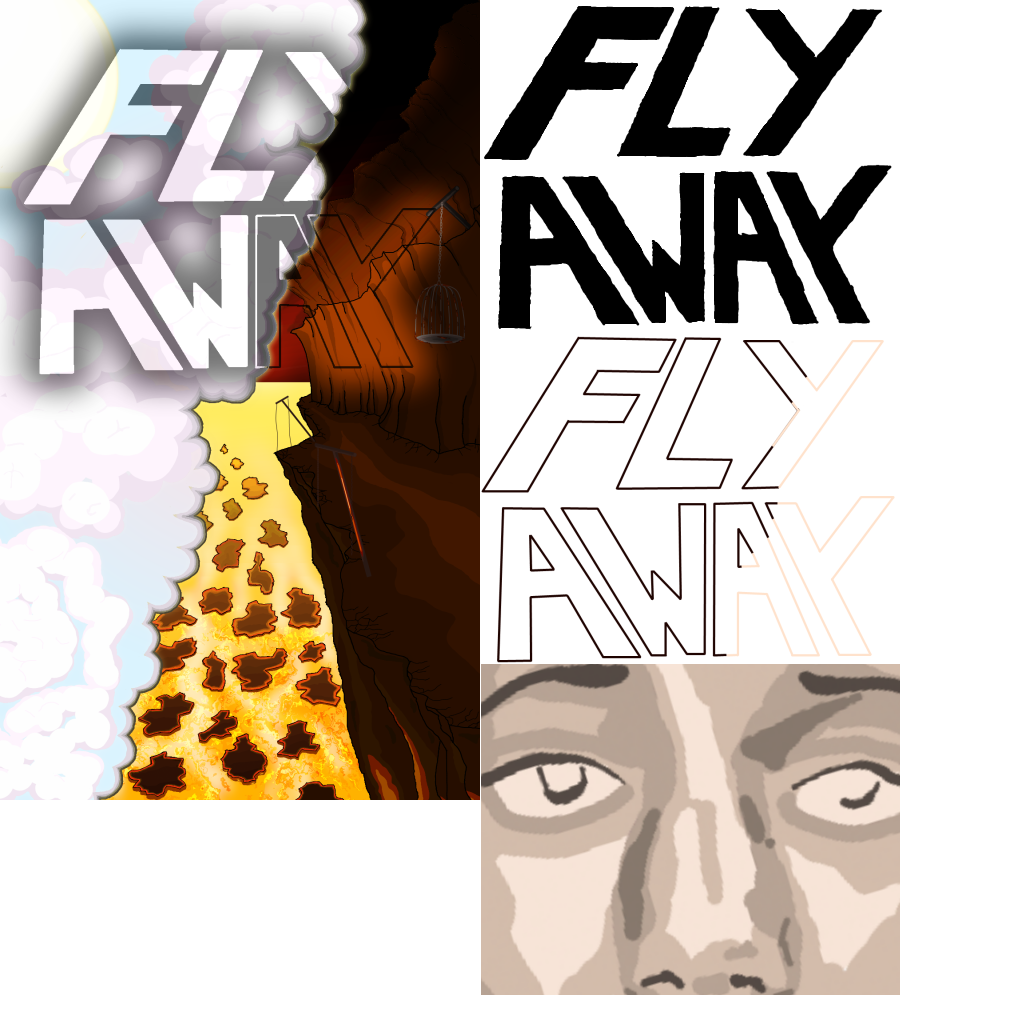
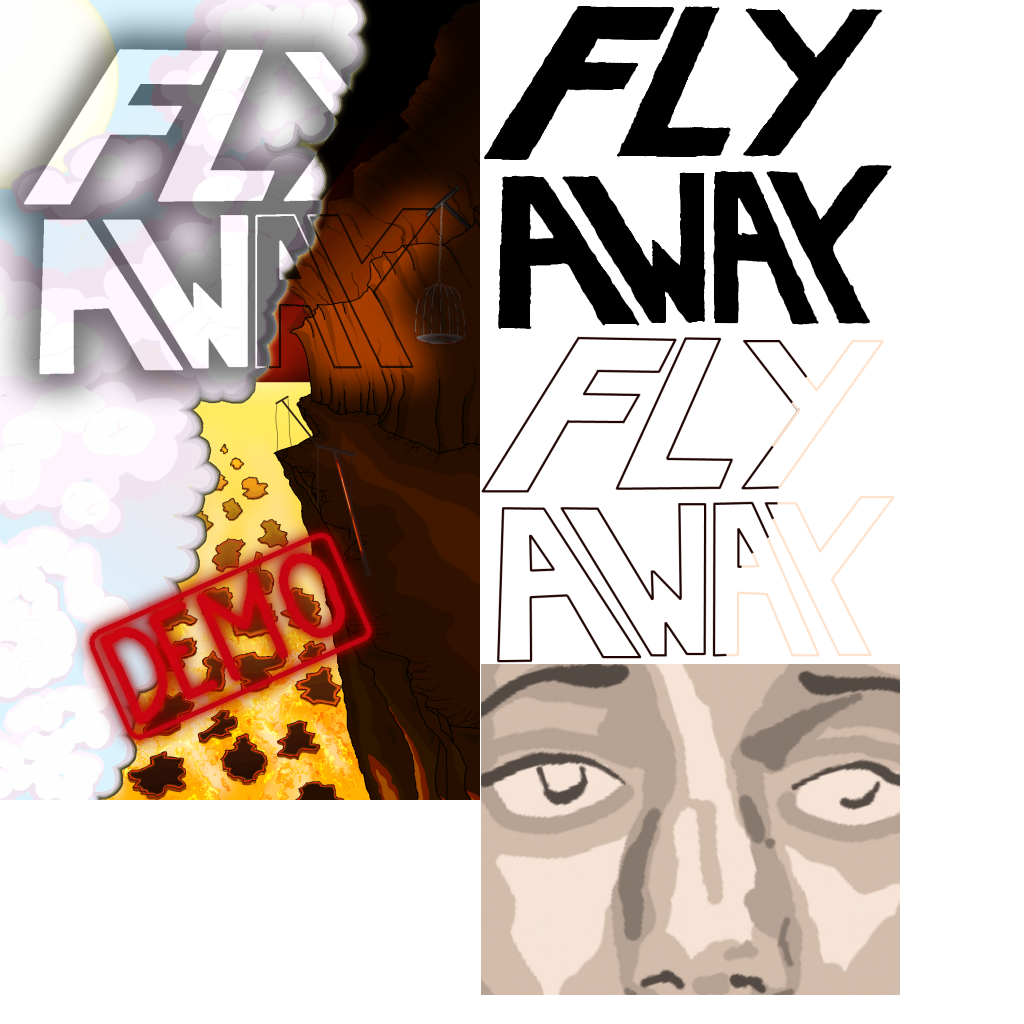
- demo sign on the main menu background screen - info screen with a link to our webpage instead of the 6th level

Changed region(s): [[0.0625, 0.5, 0.375, 0.75]]

diff --git a/Kabloons/src/com/hypefoundry/kabloons/GameScreen.java b/Kabloons/src/com/hypefoundry/kabloons/GameScreen.java
@@ -60,6 +60,8 @@ import com.hypefoundry.kabloons.entities.toggle.ToggleVisual;
 import com.hypefoundry.kabloons.entities.tutorial.StartTutorial;
 import com.hypefoundry.kabloons.entities.tutorial.StartTutorialController;
 import com.hypefoundry.kabloons.entities.tutorial.StartTutorialVisual;
+import com.hypefoundry.kabloons.entities.webLink.WebLink;
+import com.hypefoundry.kabloons.entities.webLink.WebLingVisual;
 import com.hypefoundry.kabloons.utils.AssetsFactory;
 import com.hypefoundry.kabloons.utils.LevelsLoader;
 import com.hypefoundry.kabloons.utils.UnlockedLevelsStorage;
@@ -73,7 +75,6 @@ import com.hypefoundry.kabloons.utils.UnlockedLevelsStorage;
 public class GameScreen extends Screen 
 {
 	private int									m_levelIdx;
-	private static int							m_levelsCount = 5;
 	
 	private static int							m_nominalViewportWidth = 480;
 	private static int							m_nominalViewportHeight = 800;
@@ -99,6 +100,7 @@ public class GameScreen extends Screen
 		m_levelIdx = levelIdx;
 		
 		final GameScreen gameScreen = this;
+		final Game gameInstance = game;
 		
 		// load common assets definitions
 		try 
@@ -115,6 +117,11 @@ public class GameScreen extends Screen
 		// create the game world
 		m_world = new World();
 		
+		// create the views
+		m_worldRenderer = new Renderer2D( game, m_nominalViewportWidth, m_nominalViewportHeight );
+		m_physicsView = new PhysicsView( 2.0f ); // TODO: configure cell size
+		m_controllersView = new ControllersView( this );
+		
 		// serialization support
 		m_world.registerEntity( Background.class, new EntityFactory() { @Override public Entity create() { return new Background(); } } );
 		m_world.registerEntity( AnimatedBackground.class, new EntityFactory() { @Override public Entity create() { return new AnimatedBackground(); } } );
@@ -127,6 +134,7 @@ public class GameScreen extends Screen
 		m_world.registerEntity( BuzzSaw.class, new EntityFactory() { @Override public Entity create() { return new BuzzSaw(); } } );
 		m_world.registerEntity( StartTutorial.class, new EntityFactory() { @Override public Entity create() { return new StartTutorial(); } } );
 		m_world.registerEntity( Help.class, new EntityFactory() { @Override public Entity create() { return new Help(); } } );
+		m_world.registerEntity( WebLink.class, new EntityFactory() { @Override public Entity create() { return new WebLink( gameInstance, gameScreen, m_worldRenderer.getCamera() ); } } );
 
 		// load the world
 		try 
@@ -141,11 +149,6 @@ public class GameScreen extends Screen
 			throw new RuntimeException( e );
 		}
 		
-		// create the views
-		m_worldRenderer = new Renderer2D( game, m_nominalViewportWidth, m_nominalViewportHeight );
-		m_physicsView = new PhysicsView( 2.0f ); // TODO: configure cell size
-		m_controllersView = new ControllersView( this );
-		
 		// register visuals
 		m_world.attachView( m_worldRenderer );
 		m_worldRenderer.register( Background.class, new EntityVisualFactory() { @Override public EntityVisual instantiate( Entity parentEntity ) { return new BackgroundVisual( m_resourceManager, parentEntity ); } } );
@@ -158,6 +161,7 @@ public class GameScreen extends Screen
 		m_worldRenderer.register( BuzzSaw.class, new EntityVisualFactory() { @Override public EntityVisual instantiate( Entity parentEntity ) { return new BuzzSawVisual( m_resourceManager, parentEntity ); } } );
 		m_worldRenderer.register( StartTutorial.class, new EntityVisualFactory() { @Override public EntityVisual instantiate( Entity parentEntity ) { return new StartTutorialVisual( m_resourceManager, parentEntity ); } } );
 		m_worldRenderer.register( Help.class, new EntityVisualFactory() { @Override public EntityVisual instantiate( Entity parentEntity ) { return new HelpVisual( m_resourceManager, parentEntity ); } } );
+		m_worldRenderer.register( WebLink.class, new EntityVisualFactory() { @Override public EntityVisual instantiate( Entity parentEntity ) { return new WebLingVisual( m_resourceManager, parentEntity ); } } );
 		
 		// register controllers
 		m_world.attachView( m_controllersView );
@@ -251,7 +255,7 @@ public class GameScreen extends Screen
 
 	public void loadNextLevel() 
 	{		
-		if ( m_levelIdx < m_levelsCount )
+		if ( m_levelIdx < LevelsLoader.m_levelsCount )
 		{
 			LevelsLoader.loadLevel( (GLGame)m_game, m_levelIdx + 1, m_levelIdx );
 		}
@@ -272,7 +276,7 @@ public class GameScreen extends Screen
 	 */
 	public void unlockNextLevel()
 	{
-		if ( m_levelIdx < m_levelsCount )
+		if ( m_levelIdx < LevelsLoader.m_levelsCount )
 		{
 			int nextLevelIdx = m_levelIdx + 1;
 			

diff --git a/Kabloons/src/com/hypefoundry/kabloons/entities/webLink/WebLink.java b/Kabloons/src/com/hypefoundry/kabloons/entities/webLink/WebLink.java
@@ -1,0 +1,99 @@
+/**
+ * 
+ */
+package com.hypefoundry.kabloons.entities.webLink;
+
+import java.util.List;
+
+import android.content.Intent;
+import android.net.Uri;
+
+import com.hypefoundry.engine.core.Input;
+import com.hypefoundry.engine.core.Input.TouchEvent;
+import com.hypefoundry.engine.game.Game;
+import com.hypefoundry.engine.game.InputHandler;
+import com.hypefoundry.engine.game.Screen;
+import com.hypefoundry.engine.impl.game.GLGame;
+import com.hypefoundry.engine.math.Vector3;
+import com.hypefoundry.engine.renderer2D.Camera2D;
+import com.hypefoundry.engine.util.serialization.DataLoader;
+import com.hypefoundry.engine.world.Entity;
+
+/**
+ * @author Paksas
+ *
+ */
+public class WebLink extends Entity implements InputHandler
+{
+	String						m_imagePath;
+	String 						m_url;
+	
+	private		Game			m_game;
+	private		Camera2D		m_camera;
+	private		Vector3			m_touchPos 		= new Vector3();
+	
+	
+	/**
+	 * Constructor.
+	 * 
+	 * @param game
+	 * @param parentScreen
+	 * @param camera
+	 */
+	public WebLink( Game game, Screen parentScreen, Camera2D camera )
+	{
+		m_game = game;
+		parentScreen.registerInputHandler( this );
+		
+		m_camera = camera;
+	}
+	
+	@Override
+	public void onLoad( DataLoader loader ) 
+	{
+		m_imagePath = loader.getStringValue( "path" );
+		m_url = loader.getStringValue( "url" );
+	}
+
+	@Override
+	public boolean handleInput( Input input, float deltaTime ) 
+	{
+		boolean linkHit = false;
+		
+		List< TouchEvent > inputEvents = input.getTouchEvents();
+		int count = inputEvents.size();
+		for ( int i = 0 ; i < count; ++i )
+		{				
+			TouchEvent lastEvent = inputEvents.get(i);
+			if ( lastEvent.type == TouchEvent.TOUCH_DOWN )
+			{
+				// change the gesture direction from screen to model space
+				m_touchPos.set( lastEvent.x, lastEvent.y, 0 );
+				m_camera.screenPosToWorld( m_touchPos, m_touchPos );
+				
+				if ( this.getWorldBounds().doesOverlap( m_touchPos, null ) == true )
+				{
+					// link has been hit
+					linkHit = true;
+					break;
+				}
+			}
+		}
+		
+		if ( linkHit )
+		{
+			followLink();
+		}
+
+		return linkHit;
+	}
+	
+	/**
+	 * Follows a link to the hypeforge web page 
+	 */
+	private void  followLink()
+	{
+		Intent i = new Intent( "android.intent.action.VIEW", Uri.parse( m_url ) ); 
+		((GLGame)m_game).startActivity( i );
+	}
+}

diff --git a/Kabloons/src/com/hypefoundry/kabloons/entities/webLink/WebLingVisual.java b/Kabloons/src/com/hypefoundry/kabloons/entities/webLink/WebLingVisual.java
@@ -1,0 +1,47 @@
+/**
+ * 
+ */
+package com.hypefoundry.kabloons.entities.webLink;
+
+import com.hypefoundry.engine.core.ResourceManager;
+import com.hypefoundry.engine.math.BoundingBox;
+import com.hypefoundry.engine.math.Vector3;
+import com.hypefoundry.engine.renderer2D.Camera2D;
+import com.hypefoundry.engine.renderer2D.EntityVisual;
+import com.hypefoundry.engine.renderer2D.SpriteBatcher;
+import com.hypefoundry.engine.renderer2D.TextureRegion;
+import com.hypefoundry.engine.world.Entity;
+import com.hypefoundry.kabloons.entities.background.Background;
+
+/**
+ * @author Paksas
+ *
+ */
+public class WebLingVisual extends EntityVisual 
+{
+
+	private TextureRegion		m_pixmap;
+	private WebLink 			m_demoEnd;
+	
+	/**
+	 * Constructor.
+	 * 
+	 * @param resMgr
+	 * @param backgroundEntity
+	 */
+	public WebLingVisual( ResourceManager resMgr, Entity demoEndEntity )
+	{
+		super( demoEndEntity );
+		
+		m_demoEnd = (WebLink)demoEndEntity;
+		m_pixmap = resMgr.getResource( TextureRegion.class, m_demoEnd.m_imagePath );
+	}
+	
+	@Override
+	public void draw( SpriteBatcher batcher, Camera2D camera, float deltaTime ) 
+	{
+		Vector3 pos = m_entity.getPosition();
+		BoundingBox bs = m_entity.getBoundingShape();
+		batcher.drawSprite( pos, bs, m_pixmap );
+	}
+}

diff --git a/Kabloons/src/com/hypefoundry/kabloons/utils/LevelsLoader.java b/Kabloons/src/com/hypefoundry/kabloons/utils/LevelsLoader.java
@@ -1,9 +1,8 @@
 package com.hypefoundry.kabloons.utils;
 
-import java.io.IOException;
 import java.io.InputStream;
 
-import android.util.Log;
+
 
 import com.hypefoundry.engine.game.Screen;
 import com.hypefoundry.engine.game.ScreenFactory;
@@ -16,7 +15,7 @@ import com.hypefoundry.kabloons.GameScreen;
 
 public class LevelsLoader 
 {
-	private static int							m_levelsCount = 5;
+	public static int							m_levelsCount = 6;
 	
 	
 	static class GameScreenFactory implements ScreenFactory
